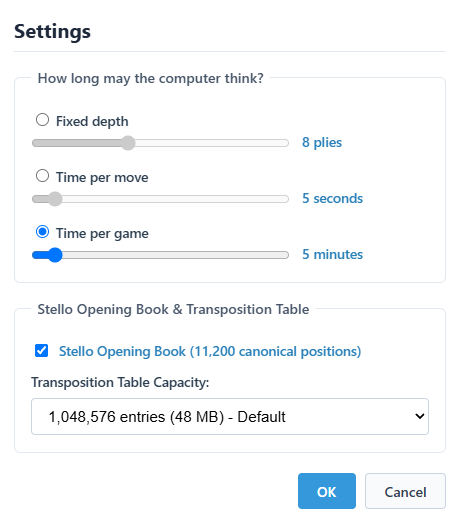
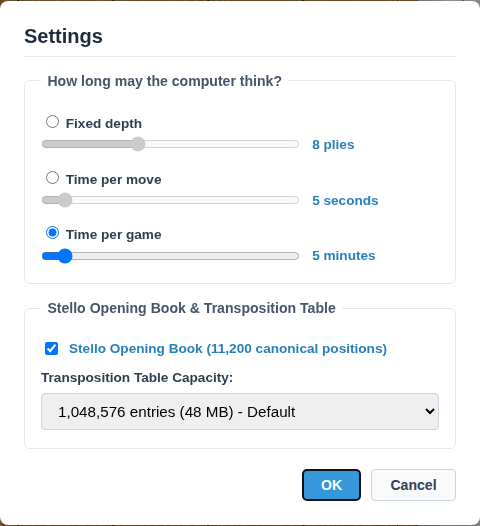
Refresh docs for the GameShell GUI and recent fixes
- Brain docs: GUI chapter, app integration, time control and README
  match the current code; the spec link points at GameShell.
- SVG figures corrected; new gui.png and gui-settings.png screenshots.
- GameShell 7f1c70d: formulas in headings keep their braces.

diff --git a/docs/brain/15-gui-and-settings.md b/docs/brain/15-gui-and-settings.md
@@ -4,7 +4,7 @@
 
 ## In short
 
-Stello features a unified, tournament-grade user interface across both **WPF desktop** and **Blazor WebAssembly** clients. Conforming to the universal tournament game GUI blueprint ([general-game-gui-specification.md](../../Plans/general-game-gui-specification.md)), the interface combines a warm wooden board aesthetic, a 4-layer dual-card player scoreboard, fixed board orientation, quick action controls, real-time AI telemetry, and synthesized procedural audio feedback.
+Stello features a unified, tournament-grade user interface across both **WPF desktop** and **Blazor WebAssembly** clients. Conforming to the universal tournament game GUI blueprint ([general-game-gui-specification.md](https://github.com/cjp-dev/GameShell/blob/main/docs/general-game-gui-specification.md), v1.1, kept in the shared GameShell library), the interface combines a warm wooden board aesthetic, a 4-layer dual-card player scoreboard, fixed board orientation, quick action controls, real-time AI telemetry, and synthesized procedural audio feedback.
 
 This chapter documents the visual layout, navigation menus, settings dialog, competitive integrity status system, opening book and transposition table memory configurations, real-time search telemetry streaming engine, and full keyboard shortcut mappings.
 
@@ -23,7 +23,7 @@ graph TD
         QuickActions["Quick Action Bar<br/>[Undo] • [Redo] • [Move Now]"]
         Board["Interactive Othello Board Canvas<br/>Fixed Orientation (a1–h8) • Wood Themes • 3D Discs • Flip Animations • Legal Hints • Last Move"]
         Analysis["Real-Time AI Analysis Panel<br/>Move • Depth • Score • Best Move • Nodes • Speed • Time (0:00.0)"]
-        History["Move History Panel<br/>Chronological Ply List (e.g. 1. d3, 2. c5, 3. c6...)"]
+        History["Move History Panel<br/>Paired rows: round • Black • White (e.g. 1. d3 c5, 2. c6 e3...)"]
     end
 
     MenuBar --> StatusPanel
@@ -85,7 +85,7 @@ The application header features a standardized 4-menu hierarchy providing struct
 * *(Separator)*
 * **Switch sides:** Switches player roles between Black and White mid-match without resetting or rotating the board. If a match is underway, prompts confirmation, marks the game status modified (`IsStatusModified = true`), and triggers AI thinking if it becomes the computer's turn.
 * *(Separator)*
-* **Settings...:** Opens the modal Game Settings dialog to configure engine thinking limits, opening book usage, and transposition table capacity.
+* **Settings... (`F2`):** Opens the modal Game Settings dialog to configure engine thinking limits, opening book usage, and transposition table capacity.
 
 ### 3. Options Menu
 * **Analysis (`Ctrl+A`):** Toggles the visibility of the real-time AI search analysis side panel.
@@ -108,7 +108,7 @@ The application header features a standardized 4-menu hierarchy providing struct
 > In accordance with the tournament GUI specification, Undo and Redo are provided via prominent **Quick Action buttons** beneath the scoreboard and via standard keyboard shortcuts (`Ctrl+Z` / `Ctrl+Y`), keeping the top menus streamlined and uncluttered.
 
 ### Responsive Mobile Navigation Drawer ($\le 768\text{px}$)
-On mobile devices and narrow viewports ($\le 768\text{px}$), the horizontal desktop menu bar collapses into a compact header featuring the title (`Stello`) and a hamburger button (`☰`). Tapping the hamburger slides out an off-canvas navigation drawer with touch targets $\ge 44\text{px}$, organizing all File, Game, Options, and Help actions cleanly.
+On mobile devices and narrow viewports ($\le 768\text{px}$), the horizontal desktop menu bar collapses into a compact header featuring the title (`Stello`) and a hamburger button (`☰`). Tapping the hamburger slides out an off-canvas navigation drawer on the right with touch targets $\ge 44\text{px}$, organizing all File, Game, Options, and Help actions cleanly. `Escape` or the 44 px `✕` button closes the drawer (`Escape` also closes an open desktop menu).
 
 ---
 
@@ -122,7 +122,7 @@ Located above the game board, the status board displays real-time match conditio
 │ Black's Turn — Click a square to place a disc                   │
 │                                                                 │
 │ ┌─────────────────────────────┐   ┌───────────────────────────┐ │
-│ │ ● Black            04:47    │   │ ○ White          04:40    │ │
+│ │ ● Black             4:47    │   │ ○ White           4:40    │ │
 │ │ Human                       │   │ Computer                  │ │
 │ │ 5                           │   │ 5                         │ │
 │ │ Moves: 6                    │   │ Moves: 8                  │ │
@@ -136,7 +136,7 @@ Located above the game board, the status board displays real-time match conditio
 * **Status Label (`STATUS`):** Normally displayed in neutral slate gray. When an unranked casual action occurs—such as taking back moves against the computer (`Undo`), switching sides mid-game, modifying engine settings during a match, or continuing past clock expiration—the `STATUS` text dynamically turns **crimson red (`#E74C3C`)**, visually indicating that competitive match integrity has been modified.
 * **Variant Badge:** A rounded teal badge displaying `[Othello]`.
 * **Thinking Limits Badge:** Summarizes the active AI constraint in the top-right corner (e.g., `5 min / game`, `5s / move`, or `8 plies`).
-* **Turn Subtitle:** Announces the active turn (e.g., `Black's Turn — Click a square to place a disc`) or terminal game outcome (`Black wins! 42 to 22`, `White wins!`, `Draw 32 to 32`).
+* **Turn Subtitle:** Announces the active turn (e.g., `Black's Turn — Click a square to place a disc`) or the end of the game (`Game over, you win: Black 42 – White 22.`, `Game over, the computer wins: …`, with two players `Game over, Black wins: Black 33 – White 31.`, `Game over, a draw: Black 32 – White 32.`, or on time `Black ran out of time. Game over, White won on time.`).
 
 ### 2. Dual-Card Player Scoreboard (4 Vertical Layers)
 In Othello, Black always moves first. In adherence to the first-mover specification, the Black player card is positioned on the left as Player 1, followed by White on the right as Player 2.
@@ -144,16 +144,16 @@ In Othello, Black always moves first. In adherence to the first-mover specificat
 Each player card is structured into 4 clear vertical layers:
 1. **Layer 1 (Identity & Digital Clock):**
    * High-contrast circular swatch (`● Black` / `○ White`).
-   * Digital countdown chess clock formatted as `m:ss` (e.g., `04:47`).
-   * The active player's card is highlighted with an elevated sky-blue border (`#3498DB`) and soft background tint (`#EFF6FF`).
+   * Digital countdown chess clock formatted as `m:ss` (e.g., `4:47`).
+   * The active player's card is highlighted with a sky-blue border (`#3498DB`), a 2 px glow and a light background tint (`#EFF6FF`).
 2. **Layer 2 (Role):** Identifies player controller type (`Human` or `Computer`).
 3. **Layer 3 (Primary Metric):** Displays the total disc count owned by the player in prominent bold numerals.
 4. **Layer 4 (Secondary Metric):** Real-time **Mobility** count (`Moves: 6`), displaying the exact number of legal moves currently available to this player.
 
 ### 3. Quick Action Buttons
 Positioned directly beneath the dual player cards:
-* **`[Undo]`:** Reverts the previous move (in human-vs-human) or rolls back both the computer and human move pair (in human-vs-computer). Clocks are refunded back to the exact snapshot recorded at that ply (`_timeLeftAtPly`). Disabled at Move 0 or while the AI is thinking.
-* **`[Redo]`:** Re-applies the most recently undone move.
+* **`[Undo]`:** Reverts the previous move (in human-vs-human) or rolls back both the computer and human move pair (in human-vs-computer). Clocks are refunded back to the exact snapshot recorded at that ply (`_timeLeftAtPly`). Disabled at Move 0, while the AI is thinking, and after a game lost on time.
+* **`[Redo]`:** Re-applies the most recently undone move. Disabled while the AI is thinking and after a game lost on time.
 * **`[Move Now]`:** Rendered when playing against the computer. While the AI is searching, pressing `[Move Now]` triggers cancellation and forces the engine to immediately play the best candidate evaluated up to that point.
 
 ### 4. Board Orientation (Fixed) & Visual Indicators
@@ -162,10 +162,10 @@ The $8 \times 8$ board orientation remains **strictly fixed** (`a1` in the top-l
 * **Last Move Marker:** A soft crimson central dot marks the exact square of the most recently placed disc.
 
 ### 5. Automatic Pass Handling
-Unlike games where passing is optional, Othello rules dictate that passing is mandatory when a player has no legal moves while the opponent can still play. The Stello game loop detects this condition automatically, executes the pass without requiring manual button clicks, displays a clear notification (`"You have no legal move and must pass."`), and yields the turn to the opponent.
+Unlike games where passing is optional, Othello rules dictate that passing is mandatory when a player has no legal moves while the opponent can still play. The Stello game loop detects this condition automatically, executes the pass without requiring manual button clicks, shows a notice in the status line that stays until the human's next turn (`"You had no legal move and passed."`, `"The computer had no legal move and passed."`, or in two-player games `"Black had no legal move and passed."`), and yields the turn to the opponent.
 
 ### 6. Timeout Continuation Safeguard
-In timed matches (`TimePerGame`), if the human player's clock reaches zero against the computer, an interactive confirmation dialog is presented: *"Your time has expired. Would you like to continue playing?"*. Accepting allows play to proceed casually while marking the match status modified (`#E74C3C`). Declining concludes the game as a loss on time.
+In timed matches (`TimePerGame`), if the human's clock reaches 0:00 against the computer, a Yes/No dialog asks *"You ran out of time! Do you want to continue playing?"*. **Yes** freezes the human's clock at 0:00 and lets play continue casually, marking the status modified (`#E74C3C`). **No** ends the game, and so does the computer's clock (or either clock in a two-player game) running out. The status then reads `Black ran out of time. Game over, White won on time.` (or vice versa); moves, Undo, Redo and Switch sides are blocked, and New Game starts without asking.
 
 ---
 
@@ -259,16 +259,13 @@ In Blazor WebAssembly (`Stello.Web`), running deep searches directly on the main
 Located below the analysis panel, the **Move History** card logs all played moves in chronological order:
 
 ```text
-MOVE HISTORY (6 plies)
-1. d3
-2. c5
-3. c6
-4. e3
-5. f3
-6. f4
+MOVE HISTORY (6 moves)
+1. d3   c5
+2. c6   e3
+3. f3   f4
 ```
 
-Each row displays the sequence number and standard algebraic coordinate notation. When moves are taken back via `[Undo]`, the history automatically trims back to the corresponding ply.
+Each row is one round: the round number, Black's move and White's move (a pass is shown as `pass`). The newest move is highlighted and the list scrolls itself to it. When moves are taken back via `[Undo]`, the history trims back to the corresponding move.
 
 ---
 
@@ -297,6 +294,8 @@ Because all audio waveforms are generated procedurally as 16-bit PCM WAV byte st
 | `Ctrl+M` | Engine | Force computer to play current best move (**Move Now**) |
 | `F1` | Global | Open **User guide** (this chapter) |
 | `Shift+F1` | Global | Open **Rules & Documentation** (full architectural manual) |
+| `F2` | Global (web) | Open **Settings** |
+| `Escape` | Global (web) | Close an open menu or the mobile drawer |
 
 ---
 

diff --git a/docs/brain/14-app-integration.md b/docs/brain/14-app-integration.md
@@ -22,7 +22,7 @@ The state that matters for the engine:
 | `_cancel`, `_moveNow`, `_learningCancel` | The cancellation sources of the current search (two tokens, chapter 09) and of learning |
 | `_searchId` | A number that goes up with each computer move, to recognise old progress reports |
 | `Settings` | The `GameSettings`: mode, depth, seconds per move, minutes per game, opening book toggle, transposition table capacity |
-| `_blackTimeLeft`, `_whiteTimeLeft`, `_timeAtPly` | The player clocks, and their snapshot pairs before each ply so undo restores consumed time |
+| `_blackTimeLeft`, `_whiteTimeLeft`, `_timeLeftAtPly` | The player clocks, and their snapshot pairs before each ply so undo restores consumed time |
 | `IsStatusModified` | True when casual events void competitive match integrity (Undo, side switch, mid-game settings change, timeout continuation) |
 | `Analysis` | The `AnalysisViewModel` that shows `SearchInfo` and `SearchResult` (chapter 09) |
 
@@ -73,7 +73,7 @@ stateDiagram-v2
     Thinking --> Next: move played
     HumanToMove --> Next: New Game, Open, Back, Forward, Switch Sides
     Thinking --> Next: the same commands, after the search is cancelled
-    GameOver --> Next: New Game, Open, Back
+    GameOver --> Next: New Game, Open, Back (not after a loss on time)
     HumanToMove --> Learning: Evaluate Book, Self-play
     Thinking --> Learning: Evaluate Book, Self-play
     GameOver --> Learning: Evaluate Book, Self-play
@@ -84,7 +84,7 @@ stateDiagram-v2
     Learning: Book learning
 ```
 
-- **Pass** is never a command: when the side to move has no legal move, the loop passes for it and says so in the status panel ("You have no legal move and must pass.").
+- **Pass** is never a command: when the side to move has no legal move, the loop passes for it and says so in the status panel; the notice stays until the human's next turn ("You had no legal move and passed.", "The computer had no legal move and passed.", or "Black had no legal move and passed." with two players).
 - **Thinking** is `ComputerMoveAsync`: it asks the engine host for a move (`ChooseMoveAsync`, which runs `ComputerPlayer.ChooseMove` in the background) and plays the result. If the search is cancelled, it plays nothing and the loop ends with "Stopped."; the command that cancelled it then starts a new loop.
 - Every command that changes the game (New Game, Open, Back, Forward, Switch Sides, Add Game to Book, Evaluate Book, Self-play) first calls `StopAsync`, which cancels the search and waits for `Idle`. Then it changes the game and calls `Start()` again. So there is never more than one loop, and the game is never changed while the engine reads it.
 - Back goes back to the previous position where the human is to move, skipping the computer's moves and passes; Forward goes to the next such position or to the end. Switch Sides gives the human the other colour, so the computer moves at once. After Open the human plays the side to move.
@@ -94,8 +94,9 @@ stateDiagram-v2
 | Command | Human to move | Computer thinking | Game over | Book learning |
 |---|---|---|---|---|
 | Click on a square | Plays it if legal, otherwise beeps | Beeps | Beeps | Beeps |
-| New Game, Open, Switch Sides | Yes | Yes, stops the search first | Yes | No |
-| Back / Forward | If there is a move to go back / forward to | The same, stops the search first | The same | No |
+| New Game, Open | Yes | Yes, stops the search first | Yes | No |
+| Switch Sides | Yes, against the computer | No | No | No |
+| Back / Forward | If there is a move to go back / forward to | The same, stops the search first | The same, except after a loss on time (disabled) | No |
 | Move Now | No | Yes | No | No |
 | Settings | Yes | Yes; the new settings count from the next computer move | Yes | No |
 | Save, Save As | Yes | Yes | Yes | Yes |
@@ -111,7 +112,7 @@ An asynchronous command is also disabled while it runs, for example while New Ga
 The engine is synchronous (chapter 01). The desktop host, `LocalEngineHost`, runs it with `Task.Run`, and the view model awaits the task on the UI thread:
 
 - **Progress.** `ComputerMoveAsync` creates a `Progress<SearchInfo>` on the UI thread. `Progress<T>` posts every report to the thread where it was created, so the analysis panel is always updated on the UI thread. A report can be handled after its search has ended, so the callback first checks that the report's search id is still `_searchId` and that the computer is still thinking; if not, the report is dropped.
-- **Result.** After `await`, the code is back on the UI thread: it subtracts the time used from the clock, shows the result in the analysis panel and plays the move.
+- **Result.** After `await`, the code is back on the UI thread: it sets the computer's clock to its value at the start of the search minus the search time (so the time is charged once), shows the result in the analysis panel and plays the move.
 - **Stopping.** Move Now and cancel are the two tokens of chapter 09. This sequence shows Back while the computer thinks:
 
 ```mermaid
@@ -191,9 +192,9 @@ sequenceDiagram
 
 In timed games (`TimePerGame`):
 - Both Black and White start at `MinutesPerGame`. `ResetClock` sets both back to the full time on New Game, on Open, and when settings change.
-- A 250 ms heartbeat runs down the active player's clock (`_blackTimeLeft` or `_whiteTimeLeft`).
+- A 250 ms heartbeat runs down the active player's clock (`_blackTimeLeft` or `_whiteTimeLeft`). While the computer thinks this is only for display: after the search, `ComputerMoveAsync` sets its clock to the value at the start of the search minus the search time, so thinking time is charged once.
 - Before each ply, `_timeAtPly[ply]` stores `(Black, White)` remaining times. After `Undo` and `Redo`, `RestoreClock` restores both clocks to the stored snapshot.
-- If the human player runs out of time against the computer, a timeout continuation dialog offers casual continuation (setting `IsStatusModified = true`).
+- If the human runs out of time against the computer, a Yes/No dialog offers casual continuation: Yes freezes the human's clock at 0:00 and sets `IsGameModified` (so `IsStatusModified` is true). No ends the game, as does the computer's clock (or either clock with two players) running out. `_lostOnTime` then makes `IsGameOver` true: the status reads "Black ran out of time. Game over, White won on time.", moves, Undo, Redo and Switch Sides are blocked, and New Game starts without asking.
 
 ### Loading the book
 
@@ -271,7 +272,9 @@ After Back, the computer gets back the time of the moves that were taken back, w
   - Back and Forward move between the human's turns; Switch Sides makes the computer move at once;
   - Move Now and New Game stop the search;
   - saving and opening a game, the side to move after Open, a damaged file, an automatic pass after Open, a finished game;
-  - the settings change the clock, cancelling keeps them, the clock runs down in `TimePerGame` mode;
+  - the settings change the clock, cancelling keeps them, the clock runs down in `TimePerGame` mode, and the computer's thinking time is charged once;
+  - a timeout: declining to continue ends the game, continuing keeps it going, the computer's timeout ends it without asking, and New Game after a timeout starts without confirmation;
+  - the pass notice in the status line, the two-player game-over text that names the winner, and the move count ("N moves");
   - settings, the analysis panel and the window position are saved, and a save failure is shown;
   - the book commands (chapter 11).
 - [SettingsAndBookTests.cs](../../Stello.Net/Stello.Net.Tests/SettingsAndBookTests.cs): `JsonSettingsStore` (defaults, round trip, damaged file, values kept in range, write failure) and `BookLoader` (missing files skipped, fallback from a damaged user book, no book).

diff --git a/docs/brain/09-time-control.md b/docs/brain/09-time-control.md
@@ -21,7 +21,7 @@ In addition to the time mode, `SearchLimits` carries two engine configuration pr
 * `UseOpeningBook` (`bool`, default `true`): toggles whether the opening book is queried.
 * `HashBits` (`int`, default `19`): specifies the power-of-two capacity for transposition tables.
 
-In the app, the settings dialog gives a depth of 1–20 plies, 1–60 seconds per move or 1–60 minutes per game; the default is 5 minutes per game (`GameSettings.ToLimits`). In timed games (`TimePerGame`), both players have independent digital countdown clocks shown on the dual-card scoreboard. If time runs out against the computer, a timeout continuation safeguard dialog allows continuing the match casually while marking the match status modified (`#E74C3C`).
+In the app, the settings dialog gives a depth of 1–20 plies, 1–60 seconds per move or 1–60 minutes per game; the default is 5 minutes per game (`GameSettings.ToLimits`). In timed games (`TimePerGame`), both players have independent digital countdown clocks shown on the dual-card scoreboard. If the human's time runs out against the computer, a dialog lets the human continue casually (the clock stays at 0:00 and the status is marked modified, `#E74C3C`). Otherwise a clock reaching 0:00 ends the game: "Black ran out of time. Game over, White won on time." (chapter 14).
 
 ### `TimeBudget`
 
@@ -109,7 +109,7 @@ sequenceDiagram
     SE->>SE: CheckAbort sees moveNowToken, throws SearchAbortedException
     SE->>SE: Search catches it and builds the result from the best move so far
     SE-->>VM: SearchResult (awaited Task.Run completes)
-    VM->>VM: Game.Play(result.Move), subtract the time used from the clock
+    VM->>VM: Game.Play(result.Move), set the clock to its start value minus the search time
 ```
 
 New Game, Open, Back and the other commands that change the game use the other token: `StopAsync` cancels the search and waits for it, and `ComputerMoveAsync` catches the `OperationCanceledException` and plays nothing (chapter 14).
@@ -136,7 +136,7 @@ For the first move with 5 minutes: $s = 54$, $n = 27$, $t = 300\,000 / 27 = 11\,
 - **Seconds instead of levels.** C++ had levels 0–14 that mapped to times in the tables `tider` and `rtider`. C# uses seconds and plies directly; the formulas for the game clock are the same.
 - **Deadline checks instead of a timer and `longjmp`.** C++ used a Windows multimedia timer that set a flag, and jumped out of the search with `longjmp`. C# checks a `Stopwatch` every 1024 nodes and unwinds with an exception, which is safe in .NET.
 - **Two kinds of stop.** C++ had a "Træk nu" (Move Now) menu item without any code behind it. C# has both Move Now and cancel.
-- **The engine does not know the clock.** The app keeps the computer's clock, passes the time left in `TimePerGame`, subtracts the time used after each move, and restores it on Back and Forward (chapter 14).
+- **The engine does not know the clock.** The app keeps the computer's clock, passes the time left in `TimePerGame`, sets the clock after each move to its value at the start of the search minus the search time (charged once, although the display clock also ticks during the search), and restores it on Back and Forward (chapter 14).
 
 See [Stello porting documentation.md](../../Plans/Stello%20porting%20documentation.md), section 3.8.
 

diff --git a/docs/brain/01-overview.md b/docs/brain/01-overview.md
@@ -28,7 +28,7 @@ flowchart LR
 | [Stello.Engine](../../Stello.Net/Stello.Engine) | Rules, game record, evaluation, search, opening book, book learning. No UI code and no dependencies outside .NET. |
 | [Stello.App](../../Stello.Net/Stello.App) | The view models ([CommunityToolkit.Mvvm](https://learn.microsoft.com/dotnet/communitytoolkit/mvvm/)), the settings, and the interfaces for the engine host, dialogs, files and storage, shared by both apps (chapters 14 and 15). |
 | [Stello.Net](../../Stello.Net/Stello.Net) | The WPF desktop app: windows, dialogs, and files in `%AppData%\Stello`. It runs the engine on a background task. |
-| [Stello.Web](../../Stello.Net/Stello.Web) | The web app (Blazor WebAssembly): the same game in the browser. It runs the engine in a Web Worker. |
+| [Stello.Web](../../Stello.Net/Stello.Web) | The web app (Blazor WebAssembly): the same game in the browser. It runs the engine in a Web Worker. Its menus, panels, dialogs and documentation viewer come from the shared [GameShell](https://github.com/cjp-dev/GameShell) library, a git submodule in `external/GameShell` (clone with `--recurse-submodules`). |
 | [Stello.Engine.Tests](../../Stello.Net/Stello.Engine.Tests) | xUnit tests of the engine: perft, evaluation, search, endgame (FFO positions), book, book learning. |
 | [Stello.Net.Tests](../../Stello.Net/Stello.Net.Tests) | xUnit tests of the view models, with fake dialogs, settings and book storage. |
 | [Stello.BookTool](../../Stello.Net/tools/Stello.BookTool) | Console tool for the master opening book: import, format, build, verify, statistics, recalculating the leaves, comparing and matching books (chapter 12). |
@@ -243,7 +243,7 @@ Two tokens control a running search:
 | Edge tables | 8 tables of $3^8 = 6561$ values |
 | Hash tables | 2 tables (midgame, endgame), configurable from 65K to 16.7M entries ($3\text{ MB}$ to $768\text{ MB}$ total), default $2^{19}$ slots of 2 entries of 24 bytes ($48\text{ MB}$ total) |
 | Master opening book | 11 200 positions, 22 878 book moves, all leaves searched for 60 s; binary file 193 KB |
-| Engine tests / app tests | 195 / 70 |
+| Engine tests / app tests | 195 / 78 |
 
 ---
 

diff --git a/docs/brain/README.md b/docs/brain/README.md
@@ -16,13 +16,13 @@ This is how the computer finds a move, from the position to the move that is pla
 
 ```mermaid
 flowchart TD
-    Start["Position, side to move and time limits"] --> Single{"Only one legal move?"}
-    Single -- "yes" --> Play["Play it at once"]
-    Single -- "no" --> Tracker{"Book still in use?<br/>(BookTracker)"}
+    Start["Position, side to move and time limits"] --> Tracker{"Book enabled and still in use?<br/>(UseOpeningBook, BookTracker)"}
     Tracker -- "yes" --> Book{"Position in the book?<br/>(OpeningBook)"}
     Book -- "yes" --> BookMove["Play the book move"]
-    Book -- "no" --> Next
-    Tracker -- "no" --> Next["Iterative deepening:<br/>next depth (1, 2, 3, ...)"]
+    Book -- "no" --> Single
+    Tracker -- "no" --> Single{"Only one legal move?"}
+    Single -- "yes" --> Play["Play it at once"]
+    Single -- "no" --> Next["Iterative deepening:<br/>next depth (1, 2, 3, ...)"]
     Next --> Near{"Would this depth reach<br/>within 7 plies of the end?"}
     Near -- "no" --> Midgame["Midgame search<br/>alpha-beta, move ordering,<br/>hash table, evaluation"]
     Midgame --> Limit{"Time or depth<br/>limit reached?"}

diff --git a/docs/brain/10-opening-book.md b/docs/brain/10-opening-book.md
@@ -84,7 +84,7 @@ The positions are written depth first from the position after d3, in book order.
 
 The C++ program's file `OPENING` (`Put_book`/`savebook` in [Book.cpp](../../Stello%20C++/BRAIN/Book.cpp)) is a tree of the lines after d3 (`LegacyBookFormat`):
 
-![The file layout: an int32 header, then the root chain, a 16-bit count followed by the nodes, each with a 16-bit move, value and flag and then its own reply chain. Below, the first 36 bytes of the master book with their meaning.](images/book-file-layout.svg)
+![The file layout: an int32 header, then the root chain, a 16-bit count followed by the nodes, each with a 16-bit move, value and flag and then its own reply chain. Below, the first 38 bytes of the C++ master book with their meaning.](images/book-file-layout.svg)
 
 - The header is the value of the C++ allocation counter when the book was saved (23 530 for the master file, which has 23 389 nodes); it is ignored.
 - Moves are legacy square numbers ([chapter 02](02-board-and-squares.md#legacy-square-numbers)), 0 for a pass. The flags are `CALCULATED`, `EXACT` and `INEXACT`.

diff --git a/docs/brain/04-evaluation.md b/docs/brain/04-evaluation.md
@@ -106,7 +106,7 @@ where $m$ are the side to move's edge and corner moves and $r$ the opponent's. A
 
 **Possible corners** are weighted with a probability $p$ (per mille) that the corner can be taken later. It depends on the number of discs $n$ on the board (integer division):
 
-$$p = \frac{1}{2} \left\lfloor \frac{1000\,(64 - n)}{64} \right\rfloor + 500$$
+$$p = \left\lfloor \frac{1}{2} \left\lfloor \frac{1000\,(64 - n)}{64} \right\rfloor \right\rfloor + 500$$
 
 so $p$ falls from 968 at the start to 500 on a full board. The score with the corner taken, $s_{\text{with}}$, and without it, $s_{\text{without}}$, are blended:
 
